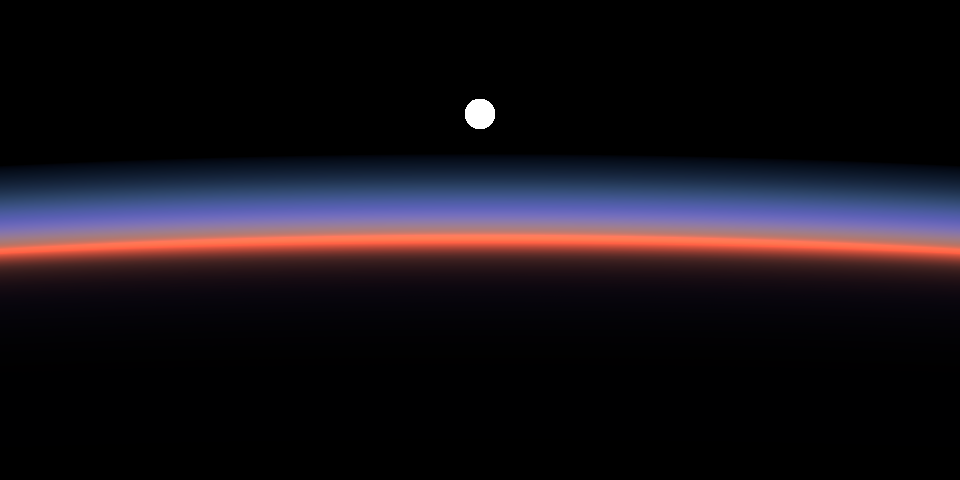
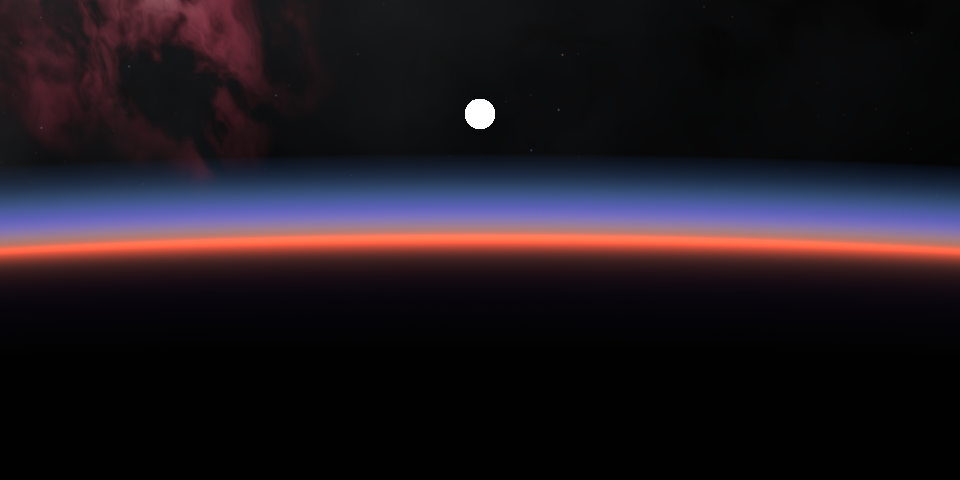
Add stars and nebulae to the space scenes, and a deep-space demo
orbit, limb-sunset and stratosphere get the space background (the
limb scenes with the galactic band tilted across their view);
deep-space.json shows it alone. Documented in docs/space.md.

Claude-Session: https://claude.ai/code/session_01U8ZZimXVEUkvKp1C1jwKkT

Changed region(s): [[0.0, 0.0, 0.4688, 0.375]]

diff --git a/docs/space.md b/docs/space.md
@@ -1,0 +1,110 @@
+# Space: stars, the Milky Way, nebulae and galaxies
+
+The `space` background fills the sky beyond the atmosphere with a procedurally generated
+universe (`src/procedural/space/`). It is a function of direction alone, infinitely far
+off, generated from a seed: the same seed gives the same sky from anywhere in the scene.
+
+```json
+"background": { "type": "space" }
+```
+
+With no skysphere it is what every escaping ray sees (`demo/scenes/deep-space.json`). With a
+skysphere, it shows through the air, dimmed by the air's transmittance along the view ray
+and hidden by the ground: by day the sky outshines it, at night and from high up it shows
+(`orbit.json`, `limb-sunset.json`, `stratosphere.json`). Other backgrounds are still hidden by
+the skysphere, as before.
+
+## Options
+
+Every part is on by default; set it to `false` to turn it off.
+
+| Key | Default | |
+| --- | --- | --- |
+| `seed` | 0 | Seeds every part |
+| `brightness` | 1 | Scales all of it |
+| `galactic_pole` | `[-0.35, 0.55, 0.75]` | The direction perpendicular to the Milky Way's plane |
+| `galactic_centre` | `[0.9, 0.2, -0.3]` | Towards the galactic centre (made perpendicular to the pole) |
+| `stars` | `{}` | See below |
+| `milky_way` | `{}` | |
+| `nebulae` | `{}` | An object for random ones, or a list |
+| `galaxies` | `{}` | An object for random ones, or a list |
+
+### `stars`
+
+| Key | Default | |
+| --- | --- | --- |
+| `count` | 40000 | Stars in the whole sky |
+| `magnitude_limit` | 8 | The faintest star's magnitude; counts grow as 10^(0.47 m) towards it |
+| `brightness` | 12 | A magnitude-0 star's light, as this radiance over one pixel |
+| `size` | half a pixel | The standard deviation of a star's image, in degrees |
+| `saturation` | 1 | 0 white stars, 1 their black-body colours |
+| `galactic_concentration` | 3 | How much denser stars are in the galactic plane and bulge |
+
+Stars are drawn about a pixel wide (from the camera's field of view and the image height),
+carrying their whole flux, so they are sampled smoothly at any resolution.
+
+### `milky_way`
+
+| Key | Default | |
+| --- | --- | --- |
+| `brightness` | 0.12 | The glow of the disc |
+| `dust` | 1 | The optical depth of the dust lanes, which dim and redden what lies behind them |
+| `disc_colour`, `bulge_colour` | white-blue, yellow | |
+
+### `nebulae`
+
+Random ones are scattered along the galactic plane, crowded towards the centre:
+
+| Key | Default | |
+| --- | --- | --- |
+| `count` | 16 | |
+| `brightness` | 1 | Scales their light |
+| `size` | `[3, 12]` | The range of their radii, in degrees (planetary nebulae are an eighth of that) |
+| `kinds` | `[0.55, 0.2, 0.1, 0.15]` | The shares of emission, reflection, planetary and dark nebulae |
+
+Or list them, each with `type` (`"emission"`: hydrogen-alpha red with an oxygen-III teal core,
+threaded with dust; `"reflection"`: blue; `"planetary"`: a small ring about a white dwarf;
+`"dark"`: dust alone), `direction`, `radius` (degrees), `brightness`, `dust` and `seed`:
+
+```json
+"nebulae": [
+  { "type": "emission", "direction": [0.2, 0.3, 1], "radius": 8 },
+  { "type": "dark", "direction": [0.25, 0.2, 1], "radius": 4, "dust": 3 }
+]
+```
+
+### `galaxies`
+
+Random ones are placed away from the galactic plane (whose dust would hide them):
+
+| Key | Default | |
+| --- | --- | --- |
+| `count` | 40 | |
+| `brightness` | 1 | Scales their surface brightness |
+| `size` | `[0.5, 3]` | The range of their radii, in degrees; smaller ones are commoner |
+| `spirals` | 0.65 | The share that are spirals; the rest are ellipticals |
+
+Or list them, each with `type` (`"spiral"` or `"elliptical"`), `direction`, `radius`
+(degrees), `inclination` (degrees from face on), `position_angle` (degrees, of the major axis
+on the sky), `brightness`, `arms` (spirals) and `seed`:
+
+```json
+"galaxies": [ { "type": "spiral", "direction": [1, 0.2, 0], "radius": 6, "inclination": 55 } ]
+```
+
+## How it works
+
+- **Stars** are generated per cell of a cube map over the sphere: each cell's count is Poisson,
+  in proportion to its solid angle and the density of stars in its direction; magnitudes are
+  drawn from the cumulative star counts, colours from black bodies (Planck's law through the
+  CIE colour-matching functions) at temperatures of the spectral classes. A direction looks
+  only at the stars in the cells around it.
+- **The Milky Way** is an exponential disc in galactic latitude, widening away from the centre,
+  with a bulge, mottled into star clouds by noise; its dust is a narrower layer broken into
+  filaments by domain-warped noise.
+- **Nebulae** are patches of domain-warped noise inside ragged edges, coloured by the emission
+  lines of their gas (or scattered starlight, or none), with dust of their own.
+- **Galaxies**: spirals are thin inclined discs, the line of sight followed to where it crosses
+  the disc, with logarithmic arms and a bulge; ellipticals have a Sérsic profile.
+- Light composes as it would: stars, glow and galaxies are seen through the dust (reddened, as
+  extinction falls with wavelength), and the emission nebulae glow in front.

diff --git a/CLAUDE.md b/CLAUDE.md
@@ -7,6 +7,7 @@ Rays.rust is a raytracer written in Rust with the following features:
 - Objects: Sphere, Plane, Mesh, OBJ file import; transforms and instancing of named "geometries"; POV-Ray's shapes (cylinder, cone, torus, blob, isosurface, text and more; see docs/shapes.md, parsed in src/scenefile_shapes.rs), combined by CSG (src/shapes/csg.rs); mountains (`"mountains"`: ridged-noise heightfield with snow, rock and vegetation), and a planet (`"planet"`: the ground as a sphere of the Earth's radius); clouds can cover the whole planet (`"mapping": "global"`: an equi-angular cube-sphere weather map and a planet-wide wind field), seen from orbit in `demo/scenes/orbit.json` (and the bare atmosphere at the limb and from the stratosphere: `limb-sunset.json`, `stratosphere.json`)
 - Participating media: boxes of constant or noise-driven density (delta tracking with local majorants, ratio-tracked shadows); Henyey-Greenstein or Mie (water droplet) phase; diffraction by particles (coronae, iridescence); ice-crystal halos traced through hexagonal prisms (sun dogs, 22°/46° halos, circumzenithal arc); rainbows traced through raindrops (`"rainbow": true`: primary and secondary bows, Alexander's dark band); optional similarity and Oz multiple-scattering approximations
 - Skysphere with Rayleigh and Mie Scattering, and aerial perspective (distant objects attenuated and hazed by the same atmosphere); `"crepuscular_rays": true` lets clouds and terrain shadow the air (sunbeams)
+- The rest of the universe (`"background": {"type": "space"}`, `src/procedural/space/`, docs/space.md): procedural stars (luminosity function, black-body colours), the Milky Way's glow and dust lanes, emission, reflection, planetary and dark nebulae, and spiral and elliptical galaxies; seen through a skysphere's air by its transmittance (`demo/scenes/deep-space.json`, and the orbit scenes)
 - Directional sun light (`"sun"`), sampled directly; follows the skysphere's sun and is reddened by its atmosphere
 - Procedural objects including Ocean (Tessendorf's algorithm with Phillips spectrum; the planet's surface by default, or a plane with `"planet_radius": 0`: displaced near the camera, physically lit, with sun glitter and slopes calibrated to Cox and Munk) and volumetric clouds: cumulus to stratus (`"nubis_clouds"`, after Horizon Zero Dawn's Nubis) and cirrus with fallstreaks (`"hogan_kew_cirrus"`, after Hogan and Kew), altocumulus as convection cells (`"benard_altocumulus"`: Rayleigh-Bénard cells, rows, undulatus waves), lenticular clouds over a mountain's lee waves (`"lenticular"`: stacked plates from moist layers), mammatus under an anvil (`"mammatus"`), rain shafts and virga (`"precipitation"`: Marshall-Palmer extinction by rain rate, shear, evaporation), and cumulus grown by simulating a sunny day (`"harris_cumulus"`: stable fluids with buoyancy, condensation, latent heat and subgrid turbulence, through the ARM shallow-cumulus case's day; cached so `scripts/animate.py` can render it boiling and dissipating)
 - Procedural trees (Weber and Penn's parametric model, `src/procedural/tree.rs`), forests of instanced
